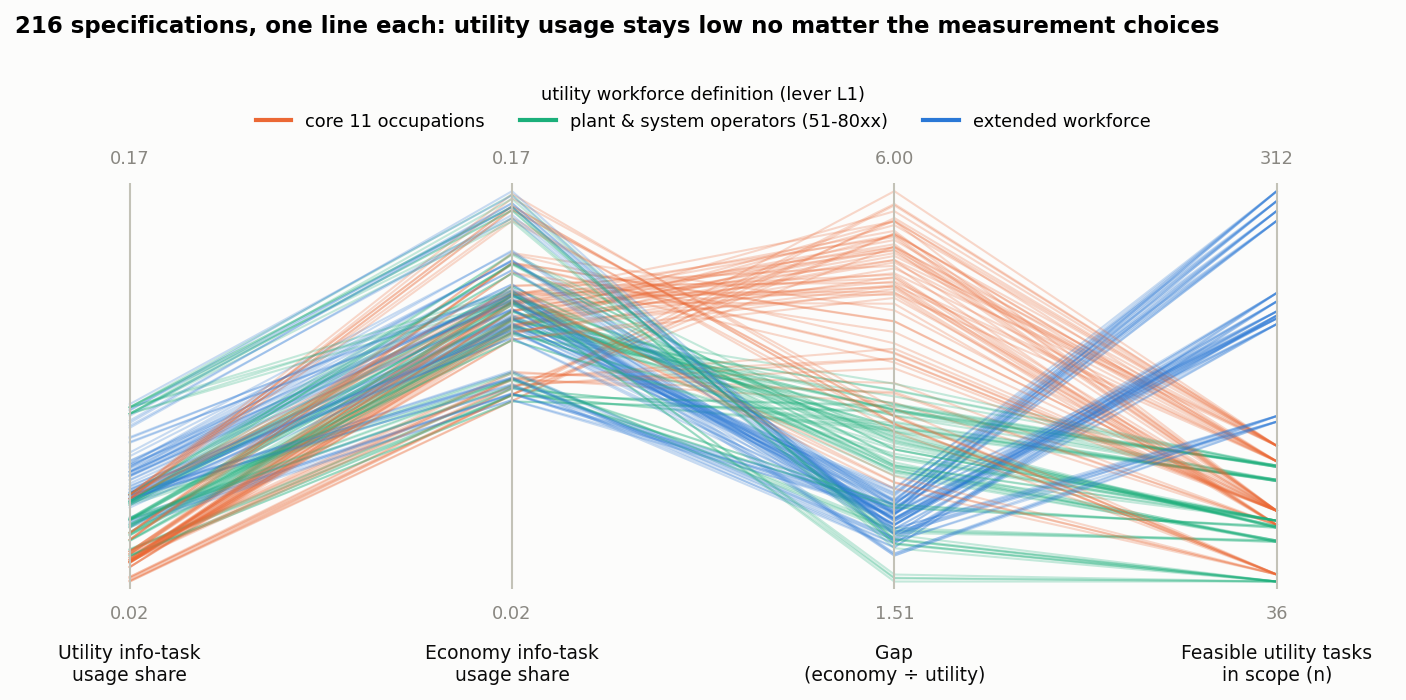
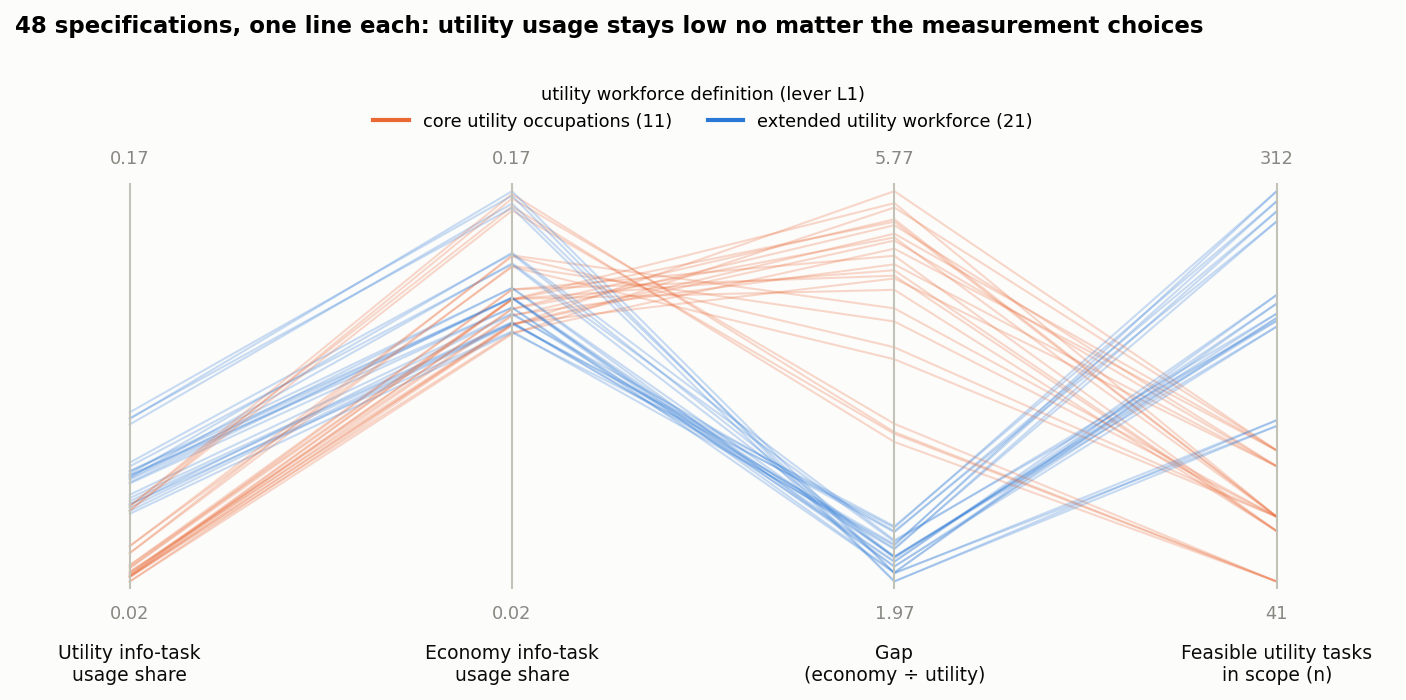
Simplify robustness design: binary usage, drop plant_operators lever
Featured levers are now the three definitional ones; 48-spec factorial.
51-80xx industrial cousins reserved for the twins comparison.

diff --git a/src/robustness.py b/src/robustness.py
@@ -25,12 +25,17 @@ PRESENCE_GWAS = {"4.A.1.a.2", "4.A.1.b.1", "4.A.1.b.2"}
 # Interpersonal GWAs (4.A.4.*): communication, training, coordinating
 INTERPERSONAL_PREFIX = "4.A.4"
 
+# Featured levers (definitional, shown in the paper): rule, presence,
+# core_set. Mechanical levers (unmatched, weighting) stay in the ensemble
+# to demonstrate they are inert; usage is binary (any observed usage),
+# since no analysis uses the penetration magnitude. SOC 51-80xx industrial
+# cousins (chemical/refinery operators) are NOT a utility definition; they
+# serve as the occupational-twins comparison instead.
 PARAMS = {
     "rule": ["any_physical", "majority_physical", "strict_information"],
     "presence_is_physical": [False, True],
-    "usage_threshold": [0.0, 0.5, 0.8],
     "unmatched": ["zero", "drop"],
-    "core_set": ["core11", "plant_operators", "extended"],
+    "core_set": ["core11", "extended"],
     "weighting": ["equal", "importance"],
 }
 
@@ -67,7 +72,6 @@ def occupation_sets() -> dict[str, set]:
     ana = pd.read_csv(PROCESSED / "analysis.csv")
     return {
         "core11": core,
-        "plant_operators": {s for s in ana["OCC_CODE"] if s.startswith("51-80")},
         "extended": set(ana.loc[ana["utility_workforce"] == True, "OCC_CODE"]),
     }
 
@@ -97,7 +101,7 @@ def evaluate(tasks: pd.DataFrame, occ_sets: dict, spec: dict) -> dict:
     if spec["unmatched"] == "drop":
         t = t[t["matched"]]
     t = t[t["cls"] == "information"]
-    t["used"] = t["penetration"] > spec["usage_threshold"]
+    t["used"] = t["penetration"] > 0  # binary: any observed usage
     t["w"] = 1.0 if spec["weighting"] == "equal" else t["importance"]
 
     in_core = t["soc"].isin(occ_sets[spec["core_set"]])
@@ -172,7 +176,7 @@ def spec_curve(r: pd.DataFrame) -> None:
 
     fig, ax = plt.subplots(figsize=(9.5, 5.5))
     fig.patch.set_facecolor(SURFACE); ax.set_facecolor(SURFACE)
-    colors = {"core11": ORANGE, "plant_operators": AQUA, "extended": BLUE}
+    colors = {"core11": ORANGE, "extended": BLUE}
     for i in d.index:
         ax.plot(range(len(axes)), [norm[c][i] for c, _ in axes],
                 color=colors[d.loc[i, "core_set"]], alpha=0.25, linewidth=1)
@@ -185,16 +189,16 @@ def spec_curve(r: pd.DataFrame) -> None:
                 fontsize=8.5, color=MUTED)
         ax.text(x, -0.16, label, ha="center", va="top", fontsize=9, color=INK)
     handles = [plt.Line2D([], [], color=c, linewidth=2) for c in colors.values()]
-    ax.legend(handles, ["core 11 occupations", "plant & system operators (51-80xx)",
-                        "extended workforce"],
+    ax.legend(handles, ["core utility occupations (11)",
+                        "extended utility workforce (21)"],
               frameon=False, fontsize=8.5, loc="upper center",
-              bbox_to_anchor=(0.5, 1.28), ncol=3,
+              bbox_to_anchor=(0.5, 1.28), ncol=2,
               title="utility workforce definition (lever L1)",
               title_fontsize=8.5)
     ax.set_xlim(-0.3, len(axes) - 0.7); ax.set_ylim(-0.02, 1.02)
     ax.axis("off")
-    ax.set_title("216 specifications, one line each: utility usage stays low "
-                 "no matter the measurement choices",
+    ax.set_title(f"{len(d)} specifications, one line each: utility usage "
+                 "stays low no matter the measurement choices",
                  loc="left", fontweight="bold", fontsize=11, y=1.34)
     fig.tight_layout()
     out = Path(__file__).resolve().parents[1] / "figures" / "robustness_parallel.png"
